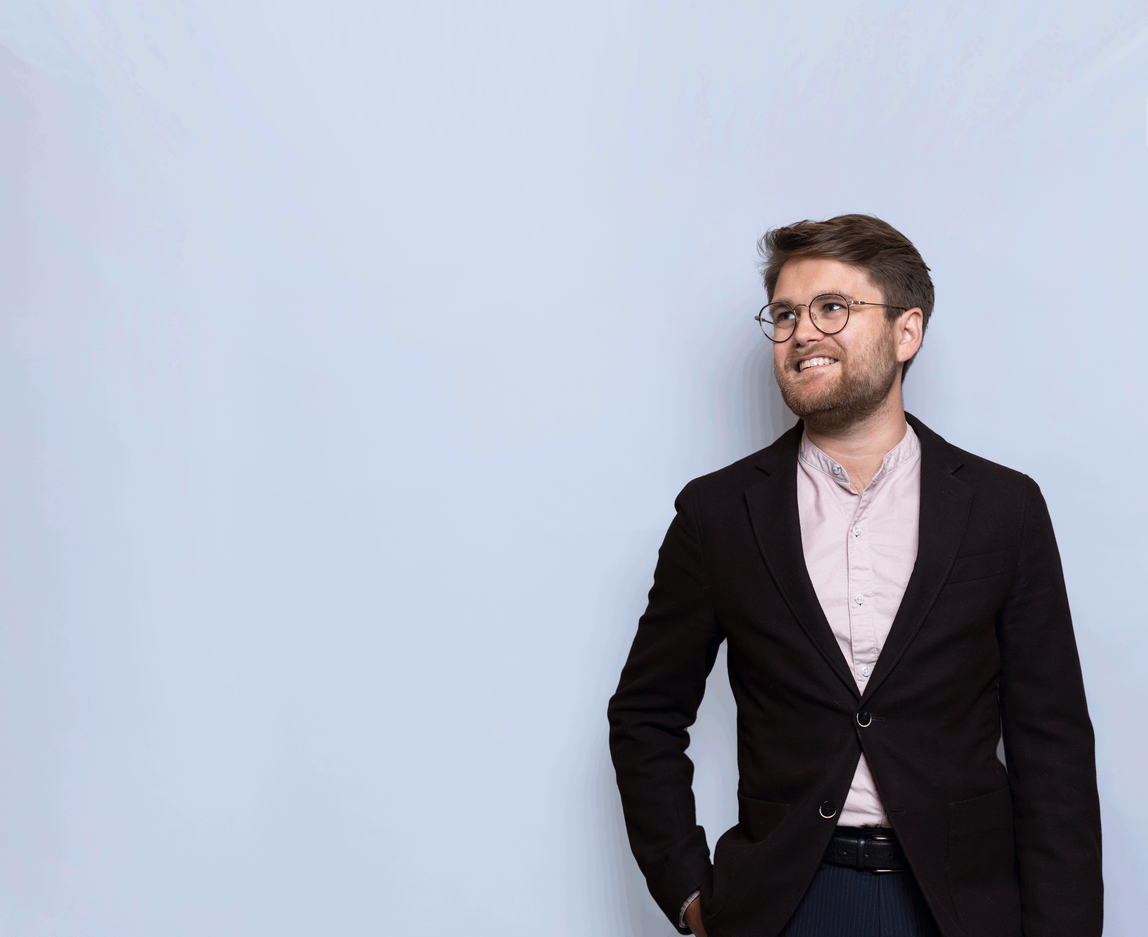
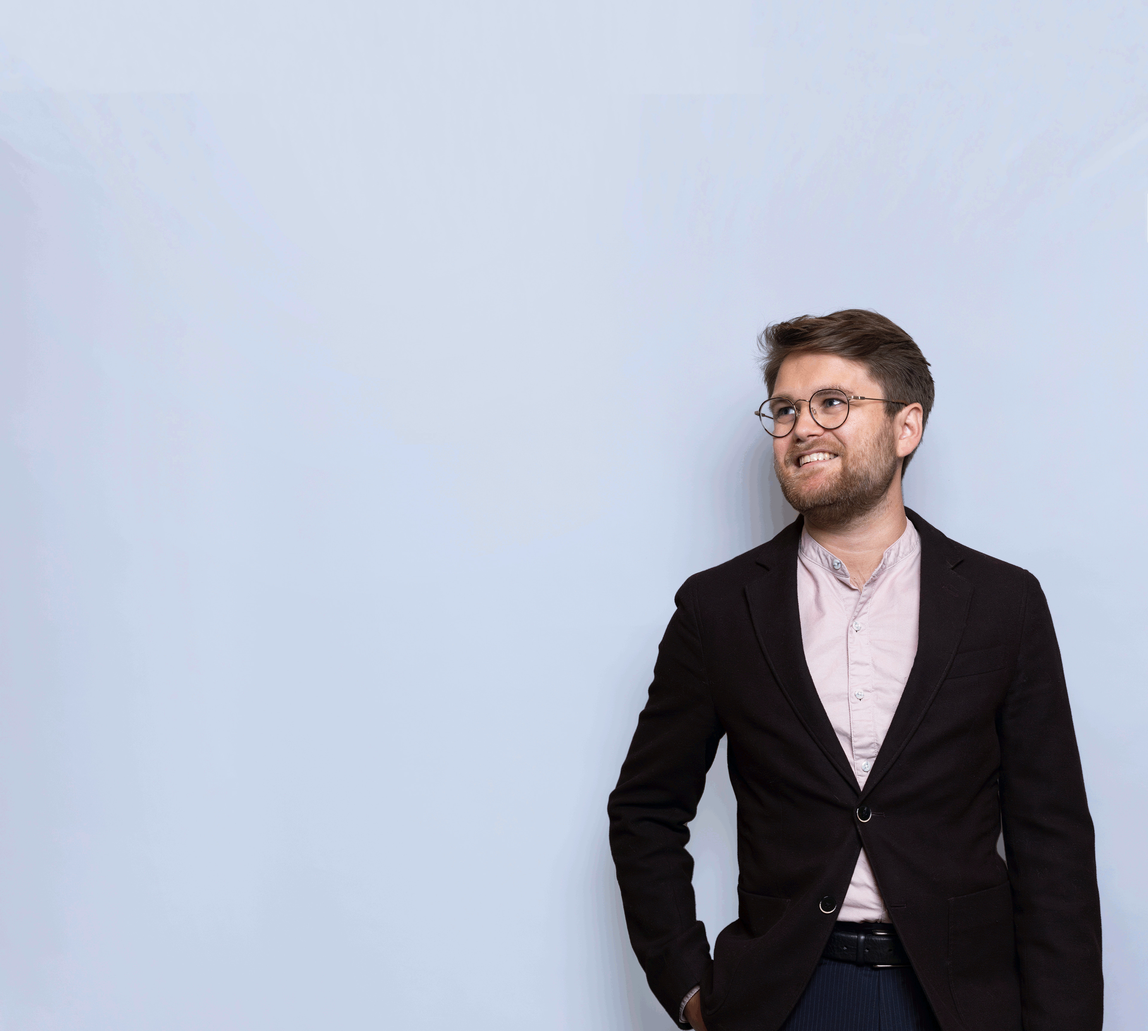
Feat/header-remake
* Making header transparent

* Moving blogpost admin-dropdown

* Adding first section padding by default

* Expanding z-index

* Reducing codeblock font-size

diff --git a/src/website/templates/blog/post.html b/src/website/templates/blog/post.html
@@ -2,20 +2,19 @@
 {% block additional_css %} {% endblock %} {% block content %}
 <main role="main">
   <section id="blogpost">
-    {% if user.is_authenticated %}
-    <div class="admin-dropdown">
-      <button type="button">
-        <i class="fa-regular fa-square-caret-down"></i>
-      </button>
-      <ul>
-        <a href="/blog/editor/{{ blogpost.id }}"><li>Edit</li></a>
-        <a href="/blog/delete/{{ blogpost.id }}"><li>Delete</li></a>
-      </ul>
-    </div>
-    {% endif %}
     <article class="blogpost">
       {% if not blogpost.published %}
       <p class="metainfo">Draft</p>
+      {% endif %} {% if user.is_authenticated %}
+      <div class="admin-dropdown">
+        <button type="button">
+          <i class="fa-regular fa-square-caret-down"></i>
+        </button>
+        <ul>
+          <a href="/blog/editor/{{ blogpost.id }}"><li>Edit</li></a>
+          <a href="/blog/delete/{{ blogpost.id }}"><li>Delete</li></a>
+        </ul>
+      </div>
       {% endif %}
       <h1>{{ blogpost.title }}</h1>
       <p class="tags">

diff --git a/src/website/static/js/base.js b/src/website/static/js/base.js
@@ -13,22 +13,22 @@ navLinks.forEach((link) => {
     });
 });
 
-/* Sticky Header */
+// /* Sticky Header */
 
-window.onscroll = function() {
-    stickyHeader();
-};
+// window.onscroll = function() {
+//     stickyHeader();
+// };
 
-var header = document.getElementById("sticky-header");
-var sticky = header.offsetTop;
+// var header = document.getElementById("sticky-header");
+// var sticky = header.offsetTop;
 
-function stickyHeader() {
-    if (window.scrollY > sticky) {
-        header.classList.add("sticky");
-    } else {
-        header.classList.remove("sticky");
-    }
-}
+// function stickyHeader() {
+//     if (window.scrollY > sticky) {
+//         header.classList.add("sticky");
+//     } else {
+//         header.classList.remove("sticky");
+//     }
+// }
 
 // // Animated favicon
 

diff --git a/src/website/static/sass/pages/_home.scss b/src/website/static/sass/pages/_home.scss
@@ -2,14 +2,15 @@
 
 section#landing {
   overflow: hidden;
-  height: calc(100vh - $header-height);
+  height: 100vh;
   width: 100%;
+  padding-top: 0;
   background-color: hsl(225, 33%, 86%);
 
   & div {
     z-index: 2;
     position: absolute;
-    top: 20vw;
+    top: 15vw;
     left: 15vw;
     color: map-get($map: $clr-primary, $key: "bg-dark");
 
@@ -24,8 +25,8 @@ section#landing {
     position: static;
     width: 100vw;
     height: inherit;
-    top: $header-height;
+    top: 0;
     object-fit: cover;
-    object-position: 85% 45%;
+    object-position: 85% 60%;
   }
 }

diff --git a/src/website/static/sass/layout/_header.scss b/src/website/static/sass/layout/_header.scss
@@ -1,24 +1,16 @@
 @use "../abstracts" as *;
 
 header {
-  z-index: 99;
+  position: fixed;
+  z-index: 990;
+  top: 0;
+  width: 100%;
   @include GridWideColumn;
   height: $header-height;
   padding-inline: $edge-padding;
-  background-color: map-get($clr-primary, "bg-dark");
+  background-color: transparent;
 
   & img {
-    max-height: calc($header-height * 0.75);
-  }
-}
-
-.sticky {
-  position: fixed;
-  top: 0;
-  width: 100%;
-
-  + main,
-  + label + main {
-    margin-top: $header-height;
+    max-height: calc($header-height * 0.6);
   }
 }

diff --git a/src/website/static/sass/pages/_blog.scss b/src/website/static/sass/pages/_blog.scss
@@ -44,6 +44,7 @@
 }
 
 .blogpost {
+  position: relative;
   @include limit-width;
 
   & p:first-child {
@@ -72,9 +73,10 @@
 }
 
 .admin-dropdown {
-  position: fixed;
-  right: 0;
-  margin: calc($edge-padding / 2);
+  position: absolute;
+  z-index: 1;
+  top: 3rem;
+  left: -$edge-padding;
 
   & button {
     background: transparent;
@@ -98,7 +100,7 @@
     &.show {
       display: block;
       position: absolute;
-      right: 0;
+      left: 0;
     }
 
     & a:hover {

diff --git a/src/website/static/sass/components/_code.scss b/src/website/static/sass/components/_code.scss
@@ -4,7 +4,7 @@
   padding: 0.1rem 0.3rem;
   background-color: map-get($map: $clr-primary, $key: "bg-dark");
   border-radius: 4px;
-  font-size: get-font-size("regular");
+  font-size: get-font-size("regular", 0.9);
 }
 
 .codehilite {
@@ -14,6 +14,6 @@
   border-radius: 5px;
 
   & code {
-    font-size: get-font-size("regular");
+    font-size: get-font-size("regular", 0.9);
   }
 }

diff --git a/src/website/static/sass/base/_general.scss b/src/website/static/sass/base/_general.scss
@@ -11,13 +11,17 @@ body {
 }
 
 main {
-  min-height: calc(100vh - $header-height - $footer-height);
+  min-height: calc(100vh - $footer-height);
 }
 
 section {
   display: grid;
   justify-content: center;
   justify-items: center;
+}
+
+main > section:first-child {
+  padding-top: calc($header-height / 2);
 }
 
 ol {

diff --git a/src/website/static/sass/abstracts/_variables.scss b/src/website/static/sass/abstracts/_variables.scss
@@ -1,4 +1,4 @@
-$header-height: 4rem;
+$header-height: 5rem;
 $footer-height: 6rem;
 $edge-padding: 1.5rem;
 $max-content-width: 650px;
@@ -38,7 +38,7 @@ $font-size: (
   "regular": 1rem,
   "large": 1.25rem,
   "big": 1.75rem,
-  "huge": 2.5rem,
+  "huge": 2.25rem,
 );
 
 $clr-primary: (

diff --git a/src/website/static/sass/components/_nav.scss b/src/website/static/sass/components/_nav.scss
@@ -2,7 +2,7 @@
 
 .nav {
   position: fixed;
-  z-index: 100;
+  z-index: 999;
   top: 0;
   bottom: 0;
   left: 0;
@@ -70,6 +70,7 @@
 
   .hamburger {
     visibility: hidden;
+
     &::before {
       visibility: visible;
       transform: translateY(0.6em) rotate(45deg);

diff --git a/src/website/static/sass/base/_typography.scss b/src/website/static/sass/base/_typography.scss
@@ -19,7 +19,7 @@ h1 {
   @include limit-width;
 
   @include media-size(">medium") {
-    font-size: get-font-size("huge", 1.1);
+    font-size: get-font-size("huge", 1.2);
   }
 }
 

diff --git a/src/website/static/sass/components/_alerts.scss b/src/website/static/sass/components/_alerts.scss
@@ -10,7 +10,7 @@
 
 .alert {
   position: fixed;
-  z-index: 99;
+  z-index: 995;
   display: flex;
   justify-content: space-between;
   align-items: center;
